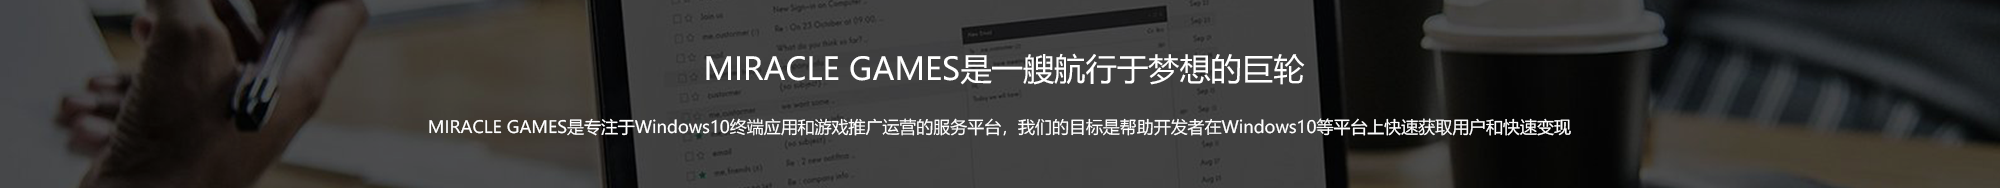
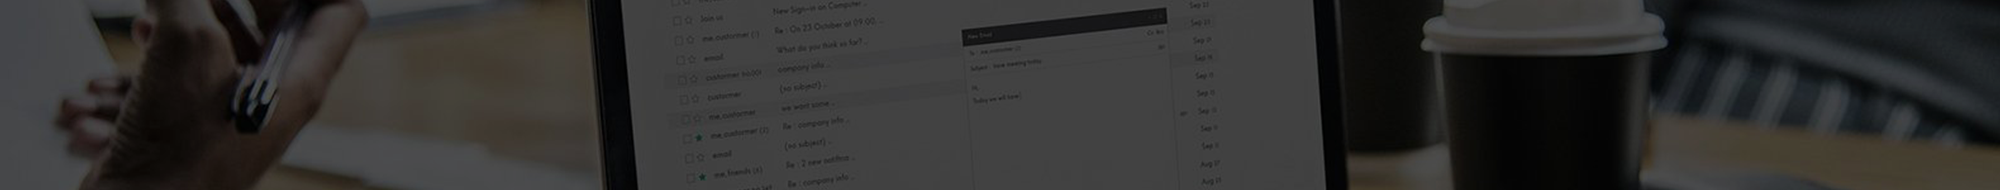
index little

diff --git a/PC/css/global.css b/PC/css/global.css
@@ -63,14 +63,15 @@ css命名一般不采用下划线
 }
 
 .sub-nav {
-    width: 1200px;
-    padding-left: 363px;
+    width: 836px;
     margin: 0 auto;
-    box-sizing: border-box;
+    padding-left: 364px;
+    /*box-sizing: border-box;*/
 }
 
 .sub-nav li {
     float: left;
+    display: inline;
     margin-right: 5px;
     line-height: 40px;
 }
@@ -500,9 +501,24 @@ css命名一般不采用下划线
 /*首页宣传图*/
 .bottom-publicBox {
     width: 100%;
-    height:188px;
-    margin-top: 50px;
+    height:190px;
+    margin-top: 40px;
     background: url("../images/bottomPublic.png") no-repeat center center;
+}
+
+.bottom-public {
+    width: 1200px;
+    margin: 0 auto;
+    text-align: center;
+    font-size: 17px;
+    line-height: 40px;
+    color: #fff;
+}
+
+.bottom-public h1 {
+    padding-top: 40px;
+    font-size: 31px;
+    line-height: 60px;
 }
 
 /*首页底部*/

diff --git a/PC/index.html b/PC/index.html
@@ -13,6 +13,10 @@
         .main-processBox {
             width: 366px;
         }
+        .sub-nav {
+            width: 1200px;
+            margin: 0 auto;
+        }
     </style>
     <![endif]-->
 </head>
@@ -297,6 +301,10 @@
 
 <!--首页宣传banner-->
 <div class="bottom-publicBox">
+    <div class="bottom-public">
+        <h1>MIRACLE GAMES是一艘航行于梦想的巨轮</h1>
+        <p>MIRACLE GAMES是专注于Windows10终端应用和游戏推广运营的服务平台，我们的目标是帮助开发者在Windows10等平台上快速获取用户和快速变现</p>
+    </div>
 </div>
 
 <!--底部开始-->
